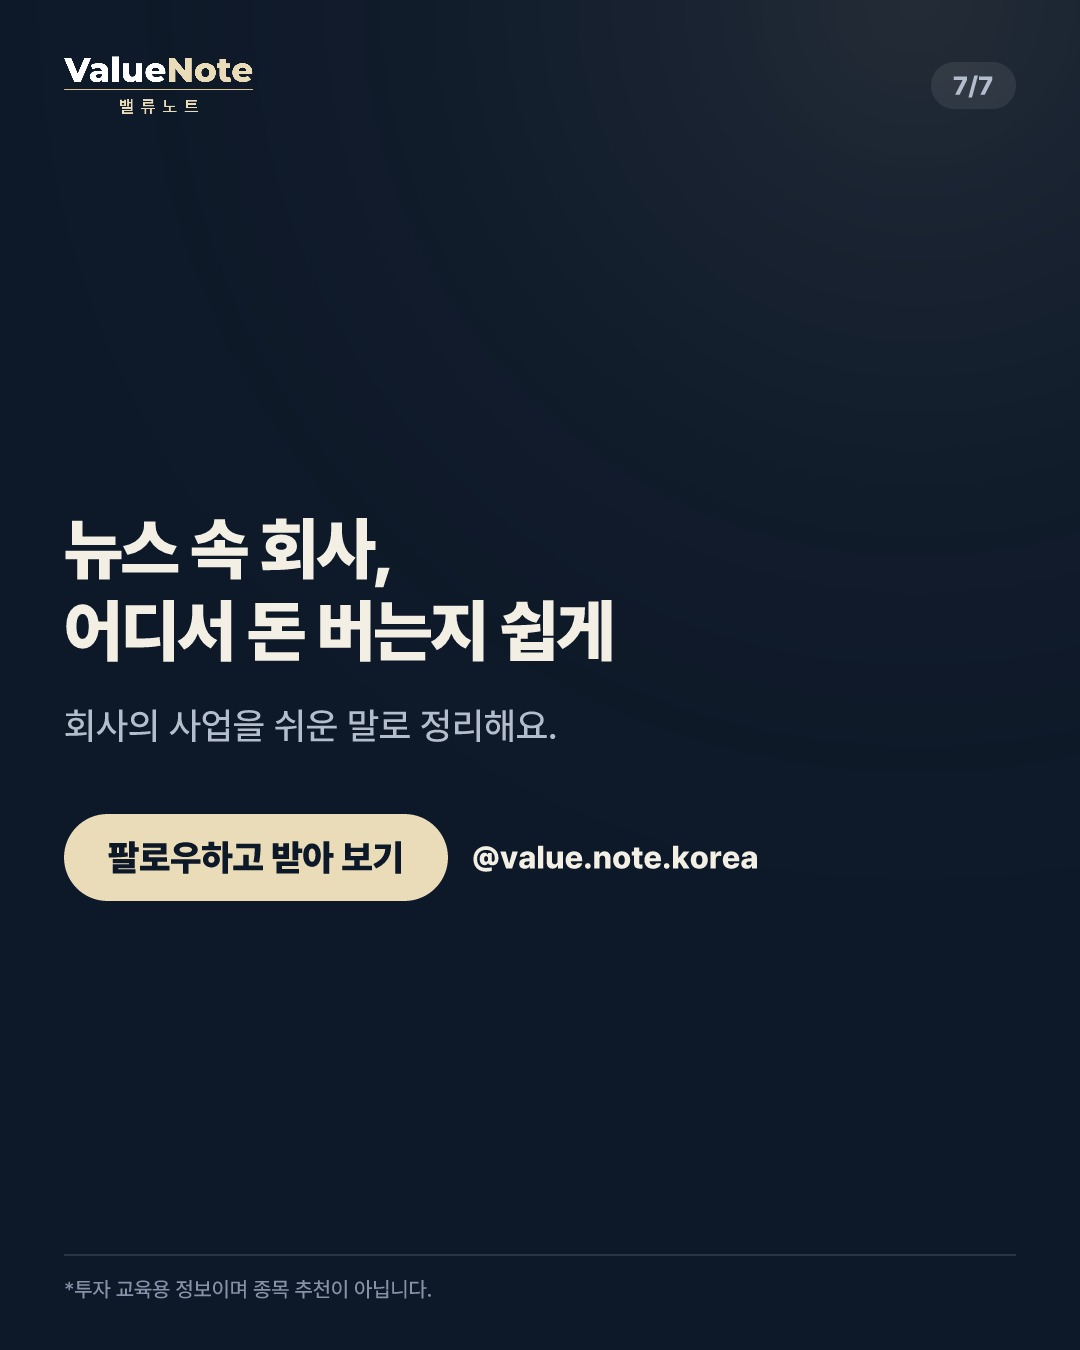
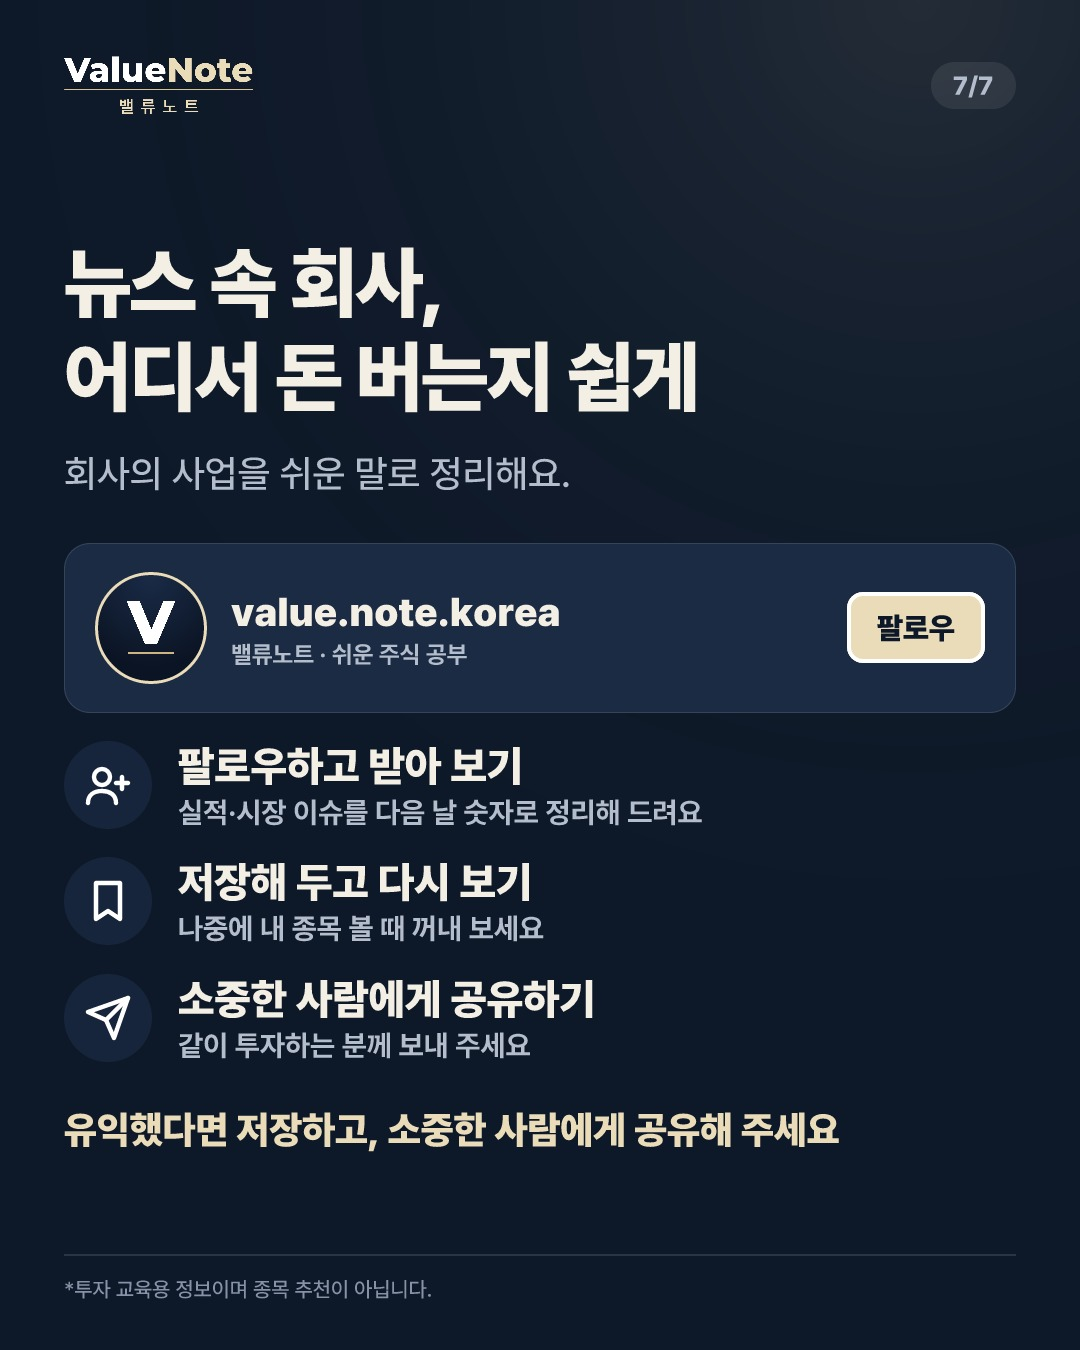
카드뉴스 화제형·공유 유도 마지막 장 추가 (korean_alpha_male 벤치마킹), 테슬라 카드 마지막 장 교체
Claude-Session: https://claude.ai/code/session_01KaYReHtpMm2Vyr44aK5vtt

Changed region(s): [[0.0611, 0.3422, 0.9472, 0.8711], [0.0611, 0.1867, 0.6417, 0.3111], [0.0917, 0.7156, 0.1222, 0.7778]]

diff --git a/scripts/cards/README.md b/scripts/cards/README.md
@@ -3,6 +3,15 @@
 > **보류 사유 반영 (2026-10-28)**: 기획·원고 전에 `select public.content_feedback_list(120);` 로 운영자가 보류하며 남긴 사유를 읽고 반영한다(scripts/CONTENT.md 7장).
 
 
+## ★ 2026-10-29 추가 (2): 화제형 카드 + 공유 유도 마지막 장
+운영자: "여기는 그냥 화제성 글들을 많이 올리는데 우리도 우리 톤에 비슷한 화제성 글들 올리면 좋겠고 … 공유도 많이 하고 좋아요도 많이 하는 상당히 높은 팔로우를 가진 채널이야 … 마지막에 공유를 유도하고 팔로우 유도하는 것도 있는데, 우리도 우리 톤으로 현명한 투자를 하고 싶으면 구독하고 소중한 사람에게 공유해 주세요 같은 내용도 좋을 것 같아." 참고: korean_alpha_male(팔로워 13.4만, 하루 6~9편). 10/27~28 반응 상위: '퇴사 못 하는 자산 90억 삼성 직원'(좋아요 89·댓글 8), '시가총액 4위'(91), '반등의 시작일까'(107), 공유 유도 장 게시물은 공유 205회. 디자인은 따라 하지 않는다(밸류노트 네이비 톤 유지). 시안: scripts/cards/drafts/S261029-hwaje.json.
+- **화제형이란**: 오늘 사람들이 이야기하는 경제·기업 뉴스 하나를 '사람·돈·반전'이 있는 이야기로 4~6장에 풀어 준다. 소재 예: 총수·창업자의 큰 결정, 반도체·대형주 급등락의 이유, 유통·브랜드 위기, 회사원의 돈 이야기, 해외 경제 위기, 신기술 사건. 정치·혐오·공포 몰이, 확인 안 된 루머, 특정인 사생활은 쓰지 않는다.
+- **하루 2편 중 이슈형 자리**: 큰 실적(36시간 안)이 있으면 실적 정리형, 없으면 화제형. 저장형(사진 중심)은 그대로.
+- **표지 (kind "ncover")**: 위쪽 뉴스 사진 + 아래 3줄 큰 제목. 한 줄에 숫자나 인용 하나(예: "석 달 새 데이터센터 24곳"), 금색·아이보리 번갈아. 줄당 14자 안쪽(글씨가 작아지지 않게). 작은 꼬리표(예: "빅테크 이야기").
+- **본문 (kind "story", 3~4장)**: 금색 소제목 띠 = 그 장의 요약 + 짧은 인용("…'더 빨리 짓고 있다'"), 사진 한 장, 필요하면 큰 숫자 하나, 기사처럼 읽히는 두 문단(~합니다, 주어 있는 완결 문장, 숫자는 기준일·출처). 장 하나 = 이야기 한 토막: 무슨 일 → 왜 → 그래서 내 돈에는 무엇이 중요한가.
+- **마지막 장 (kind "follow", 모든 카드뉴스 공통)**: 기본이 '팔로우·저장·공유' 유도 장이다 — 프로필 카드(밸류노트 로고·@value.note.korea·팔로우 버튼) + 세 줄(팔로우하고 다음 소식 받기 / 저장해 두고 다시 보기 / 소중한 사람에게 공유하기) + 금색 한 줄 "유익했다면 저장하고, 소중한 사람에게 공유해 주세요". 제목은 편마다 맞게(기본 "현명한 투자,\n놓치기 싫다면"). 옛 모양이 필요할 때만 "share": false.
+- **캡션 끝**: 마지막 문단을 "현명한 투자를 하고 싶다면 팔로우해 두세요. 유익했다면 저장하고, 소중한 사람에게 공유해 주세요." 형태로 끝낸다(종목 추천 아님 한 줄은 그 뒤).
+
 ## ★ 2026-10-29 추가: 실적 정리형 (빅 실적 발표가 있으면 그날 이슈형 자리를 이걸로)
 운영자: "여기가 이런 카드뉴스를 잘 뽑는데 벤치마킹해서 우리도 비슷하게 하자. 실적 발표할 때 실적 발표에서 어떤 게 나왔는지 이렇게 잘 정리도 해 주네." 참고: mijunow '구글, 실적 내자마자 시간외 −9.7%'(11장). 디자인은 따라 하지 않고 원리만 가져온다(밸류노트 네이비·아이보리, 형광 그린/핑크레드는 숫자 업다운에만). 첫 적용: K261029e(마이크로소프트).
 - **언제**: 우리가 다뤘거나 사람들이 많이 가진 회사(빅테크·삼성전자·SK하이닉스·현대차 등)가 실적을 낸 뒤 36시간 안. 이 형식만은 2026-10-27의 '숫자 하나·사진 중심' 제한을 풀어 장마다 숫자 2~4개와 그래프를 쓴다(점수·적정 주가·저평가 금지는 그대로).
